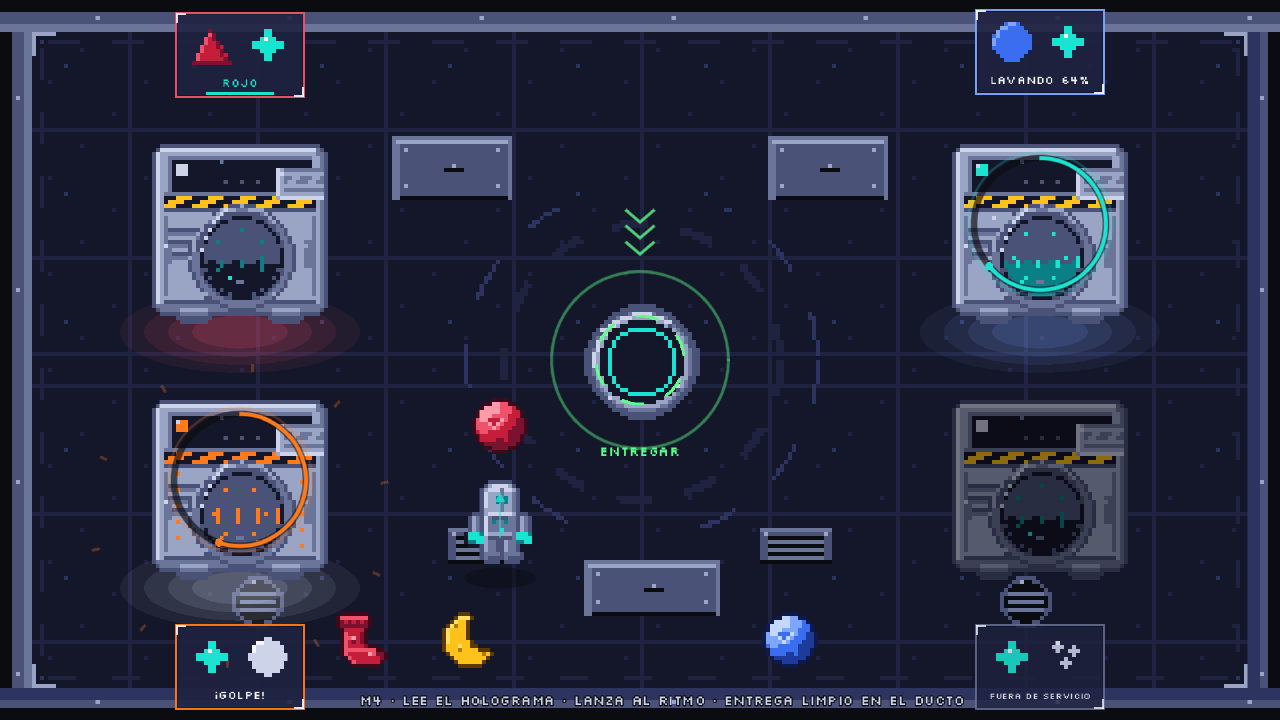
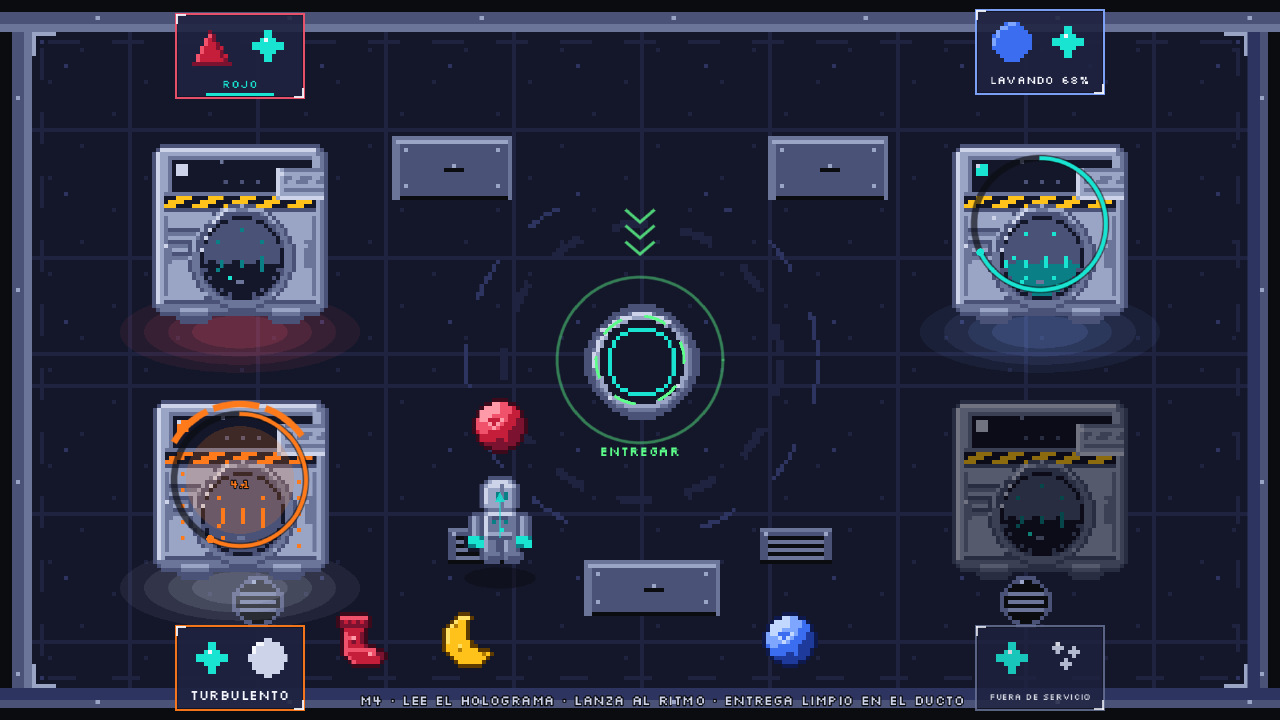
docs(wash): record the measured feedback rules

diff --git a/docs/M4_WASHERS.md b/docs/M4_WASHERS.md
@@ -19,6 +19,7 @@ locked, centre chute carrying a clean item.*
 | `scripts/logic/ScoreRules.gd` | Delivery points, S/A/B/C rank, end-screen summary |
 | `scripts/logic/ShiftRules.gd` | Win/lose evaluation, Final Load kept as stats only |
 | `scripts/entities/CosmicWasher.gd` + `.tscn` | Machine node: renderer + event forwarder |
+| `scripts/entities/WasherFX.gd` | Procedural holo/ring/gauge/chip/text visuals (no assets) |
 | `scripts/environment/DeliveryChute.gd` + `.tscn` | The goal: clean-only delivery |
 | `scenes/dev/WasherSandbox.gd` + `.tscn` | Dev/screenshot playground |
 | `tests/unit/test_washer_fsm.gd` etc. | 64 new tests (suite total 379) |
@@ -137,6 +138,33 @@ gap so a future fix updates both. Fix options for the lead (both outside this wo
 ownership): restrict a phase's `allowed_patterns` per colour in the frozen `data/phases.tres`,
 or make one washer per phase `wild`. Until then those two variants can be washed nowhere.
 
+## 3.5 Feedback (measured UX notes)
+
+The UX research measured the greybox feedback and fixed these rules; they override the
+earlier "juice" defaults.
+
+| Event | Local feedback | Duration |
+|---|---|---|
+| Correct insert | mouth rim `clean_green` 1 frame; drum loop + chime start **on the next beat** | 1 frame + beat |
+| Wrong washer | `-12` chip at the mouth (down triangle + number + orange), porthole `red_1` 1 frame, item bounced, ~120 ms buzz. **No camera shake.** | 180 ms |
+| Turbulence | persistent `TURBULENTO` label (14 px), 3-segment gauge + deadline countdown, orange porthole, 1 art px vibration @ 2 Hz, **2 alarm beeps then silence** | persistent |
+| Clean done | `fx_bubbles` loop, 1 px `clean_green` rim, two bell notes | 180 ms + hold |
+| Explosion | `fx_explosion` (6 frames @ 12 fps), `¡EXPLOSIÓN!` 24 px at the machine, 8 px shake in 4 px steps | 180 ms |
+| Chute delivery | `accept` 3 authored frames, item shrinks into the iris, `+points` flies ≤ 200 px to the counter, `+3` chip at the chute | 200 ms / 180 ms |
+
+* **Feedback budget:** every action feedback is `0.45 x T_beat` or shorter — 257/229/208/190 ms
+  at 105/118/142 BPM. `CosmicWasher.FEEDBACK_S = 0.18` is the fixed value used for chips,
+  flashes, the explosion shout and the points flight; only the turbulence label and gauge are
+  persistent. The one authored exception is the chute's `accept` animation, which is exactly
+  the 3 frames the sheet provides (250 ms at 12 fps); every added flash, chip or flight is
+  `FEEDBACK_S`.
+* **Colour is never the only channel.** Stability chips always carry a triangle glyph, the
+  number and the colour (`red_1` alone is 1.82:1 on the background — effectively invisible).
+* **Out of this workstream:** the camera hitstop (33 ms max), camera shake (8 px max) and the
+  ≥ 300 ms stability-bar slide belong to `MainLevel`; the shredder's `-8` chip + 6 px sparks
+  belong to `scripts/environment/Shredder.gd` (M3 owner). This branch only emits the events
+  and keeps the local feedback small.
+
 ## 4. CosmicWasher node
 
 Root `StaticBody2D` on `WASHER | WORLD` (**deviation:** the frozen player/item masks only
@@ -155,7 +183,7 @@ r = 60), `Audio` (`washer_drum` loop on SFX) plus three one-shot players, `Steam
 **Holo anchors adapt to the frozen layout.** The north machines carry the panel 40 px above
 them; the south row has only 64 world px between rows, so its panel is drawn 40 px **below**
 the machine (`HOLO_ORIGIN_BELOW`). Colour is never the only channel: every state has a glyph
-and Spanish text (`ROJO`, `NO COMPATIBLE`, `LAVANDO 64%`, `¡GOLPE!`, `LISTO`, `AVERIADA`,
+and Spanish text (`ROJO`, `NO COMPATIBLE`, `LAVANDO 64%`, `TURBULENTO`, `LISTO`, `AVERIADA`,
 `FUERA DE SERVICIO`). Locked machines dim the sprite to 55 % and drop their glow.
 
 Side effects (the authority): wrong washer `-12` + `wrong_washer_count`; explosion `-25` +
@@ -167,7 +195,9 @@ a wildcard rejection never cost stability; a full washer is not "wrong" either.
 Root `Area2D` on `CHUTE`, mask `ITEMS`. Signals: `delivered(item, points)` and
 `dirty_rejected(item)`. Only `item.is_clean` delivers: `+3` stability,
 `delivered_count += 1`, `score += item.points × combo` through `GameState.add_score`, chime,
-`accept` animation, floating `+points` label, item freed. Dirty items bounce out with
+`accept` animation, a `+3` chip at the chute and a `+points` label that flies at most 200 px
+towards the HUD counter (no flight under reduce motion; the counter pulse is the HUD's). The
+item shrinks into the iris for 200 ms (capped at `0.45 x T_beat`) and is then freed. Dirty items bounce out with
 `LAVA PRIMERO` for 1.2 s and **no** penalty. Delivery is guarded per instance id, so a double
 callback cannot pay twice.
 
@@ -182,8 +212,13 @@ are procedural; the hatch is the shipped `env_chute` sheet, with palette rings a
 `EJECT_OFFSET`, `EJECT_IMPULSE`, `EXPLODE_IMPULSE`, `BOUNCE_IMPULSE`, `REJECT_COOLDOWN_S = 0.6`,
 `RELEASE_COOLDOWN_S = 0.4`, `HOLO_GAP = 40`, `HOLO_ORIGIN(_BELOW)`, `SHAKE_PX = 6`,
 `SHAKE_TIME_S = 0.26`, `LOAD_FLASH_S = 0.18`, `ALARM_MAX = 3`, audio dB values.
+`CosmicWasher` feedback: `FEEDBACK_S = 0.18`, `RIM_FRAME_S = 0.02`, `BUZZ_S = 0.12`,
+`BELL_GAP_S = 0.15`, `EXPLOSION_SHAKE_PX = 8`, `SHAKE_STEP_PX = 4`,
+`TURBULENCE_VIBRATION_PX = 4` (1 art px @ 2 Hz), `ALARM_BEEPS = 2`.
 `DeliveryChute`: `BEACON_RADIUS = 44`, `HINT_RADIUS = 84`, `HATCH_RADIUS = 64`,
-`REJECT_LABEL_S = 1.2`, `ACCEPT_ANIM_S = 0.5`, `BOUNCE_IMPULSE = 340`.
+`REJECT_LABEL_S = 1.2`, `ACCEPT_ANIM_S = 0.25` (3 frames @ 12 fps), `SWALLOW_S = 0.2`,
+`POINTS_FLIGHT_PX = 200`, `COUNTER_HINT = (1124, 52)`, `FEEDBACK_S = 0.18`,
+`BOUNCE_IMPULSE = 340`.
 `ScoreRules.REFERENCE_COMBO = 4` (the documented max-possible assumption).
 
 ## 7. Wiring checklist for the lead
